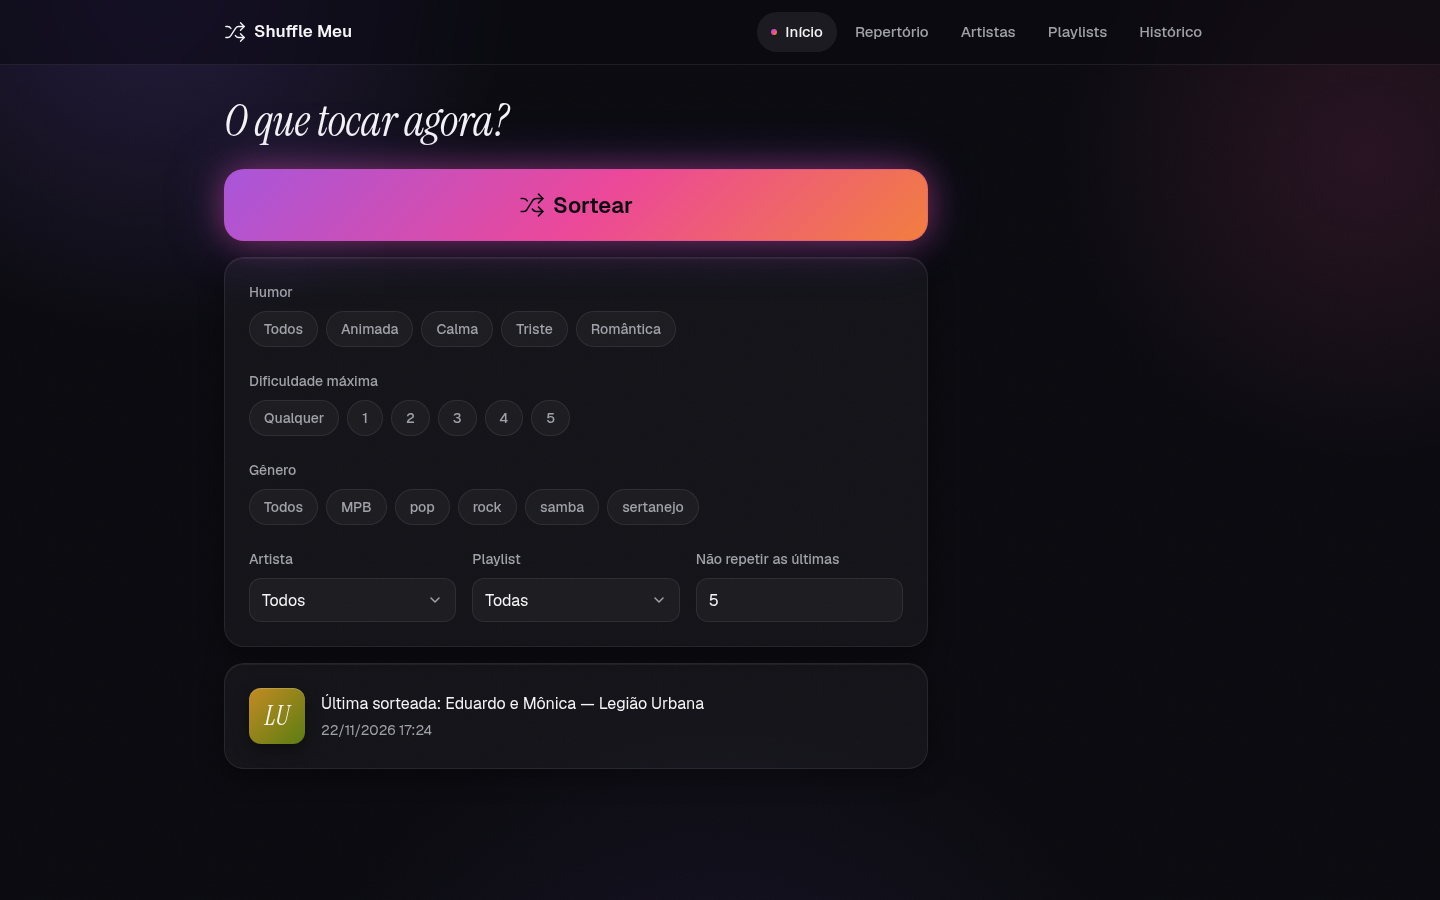
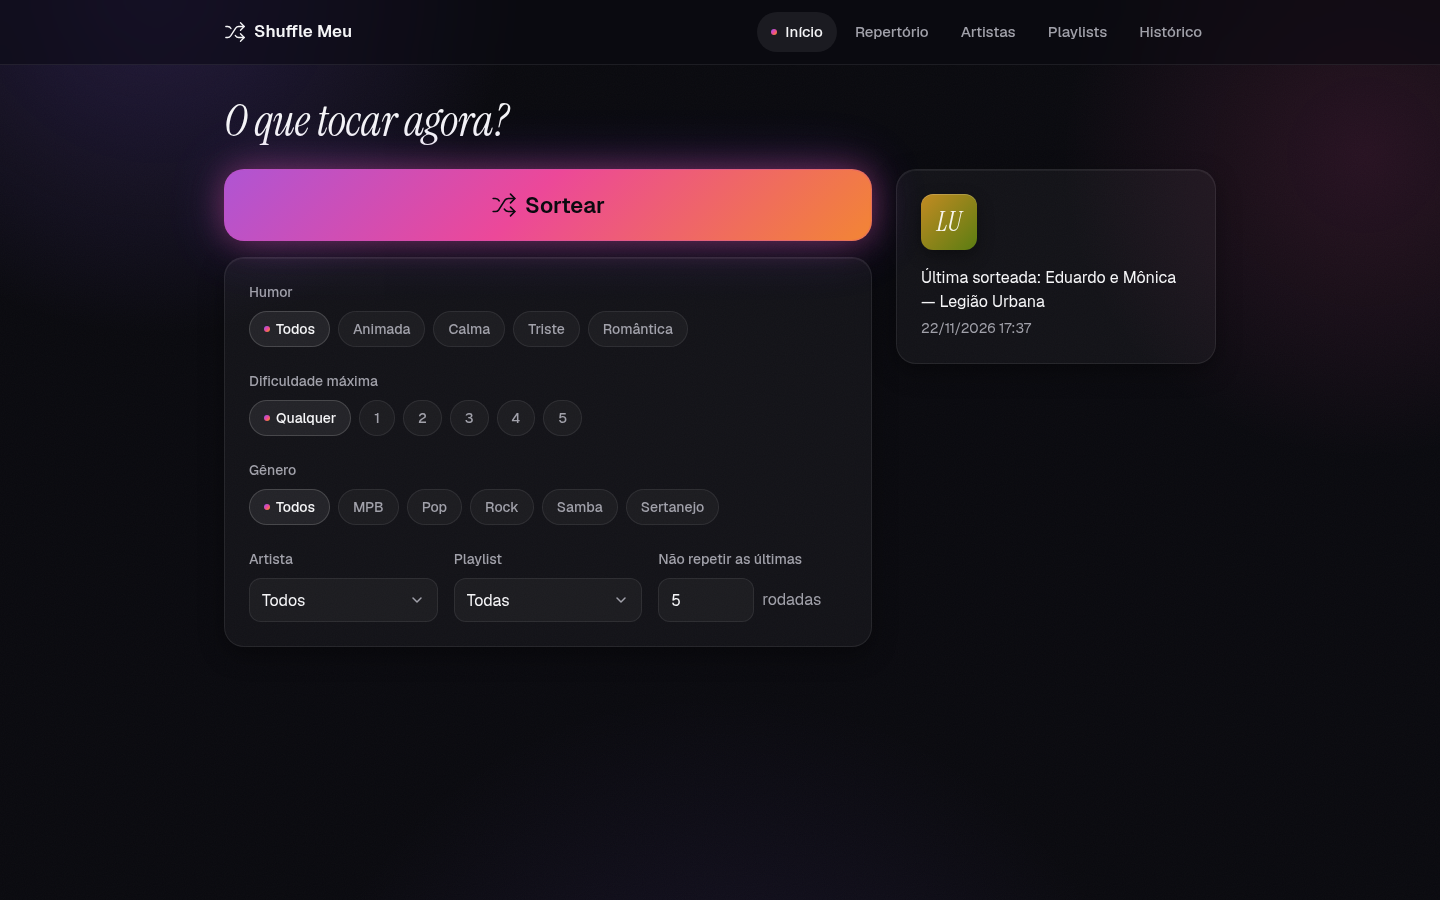
fix(visual): alinhamento da tela inicial
- Início em duas colunas a partir de 960 px, ocupando a largura da navegação;
  sem sorteios, a coluna direita mostra um cartão de espera no mesmo estilo
  (a causa era o max-width de 44rem na coluna única).
- Gêneros exibidos com a primeira letra maiúscula (siglas como MPB intactas),
  só na exibição; spec de estatísticas e design atualizados.
- Campo "Não repetir as últimas" com a unidade "rodadas".
- Chips sem filtro na URL voltam a marcar "Todos"/"Qualquer" (valor indefinido
  no Jinja não era tratado como vazio).
- Screenshots de início, repertório e histórico atualizados.

diff --git a/shuffle_meu/templates/inicio.html b/shuffle_meu/templates/inicio.html
@@ -3,14 +3,14 @@
 {% from "_macros.html" import campo, aria, chips, capa, vazio %}
 {% block titulo %}Início{% endblock %}
 {% block conteudo %}
-<div class="inicio">
 {% if not tem_musicas %}
-  <section class="cartao">
-    {{ vazio("musica", "Cadastre sua primeira música", "O sorteio começa quando o repertório tem pelo menos uma música.",
-             url_for("musicas.nova"), "Nova música") }}
-  </section>
+<section class="cartao">
+  {{ vazio("musica", "Cadastre sua primeira música", "O sorteio começa quando o repertório tem pelo menos uma música.",
+           url_for("musicas.nova"), "Nova música") }}
+</section>
 {% else %}
-  <h1>O que tocar agora?</h1>
+<h1>O que tocar agora?</h1>
+<div class="inicio">
   <form method="post" action="{{ url_for('sorteio.sortear') }}">
     <button class="primario sortear" data-pop>{{ icone("shuffle") }}Sortear</button>
     <div class="cartao campos filtros">
@@ -30,21 +30,36 @@
           {% for p in playlists %}<option value="{{ p.id }}" {% if f.playlist_id == p.id %}selected{% endif %}>{{ p.nome }}</option>{% endfor %}
         </select>
         {% endcall %}
-        {% call campo("n", "Não repetir as últimas", none) %}
-        <input name="n" type="number" min="0" max="50" inputmode="numeric" value="{{ n }}" {{ aria("n", none) }}>
-        {% endcall %}
+        <div class="campo">
+          <label for="campo-n">Não repetir as últimas<span class="visualmente-oculto"> rodadas</span></label>
+          <div class="com-unidade">
+            <input id="campo-n" name="n" type="number" min="0" max="50" inputmode="numeric" value="{{ n }}">
+            <span class="unidade" aria-hidden="true">rodadas</span>
+          </div>
+        </div>
       </div>
     </div>
   </form>
-  {% if ultimo %}
-  <section class="cartao ultima">
-    {{ capa(ultimo.artista) }}
-    <div>
-      <p>Última sorteada: {{ ultimo.titulo }} — {{ ultimo.artista }}</p>
-      <p class="meta">{{ ultimo.sorteado_em|data_local }}</p>
-    </div>
-  </section>
-  {% endif %}
-{% endif %}
+
+  <aside class="inicio-lado" aria-label="Última música sorteada">
+    {% if ultimo %}
+    <section class="cartao ultima">
+      {{ capa(ultimo.artista) }}
+      <div>
+        <p>Última sorteada: {{ ultimo.titulo }} — {{ ultimo.artista }}</p>
+        <p class="meta">{{ ultimo.sorteado_em|data_local }}</p>
+      </div>
+    </section>
+    {% else %}
+    <section class="cartao ultima ultima-vazia">
+      <span class="icone-playlist" aria-hidden="true">{{ icone("historico") }}</span>
+      <div>
+        <p>Sua última música aparece aqui</p>
+        <p class="meta">Depois do primeiro sorteio, ela fica guardada neste cartão.</p>
+      </div>
+    </section>
+    {% endif %}
+  </aside>
 </div>
+{% endif %}
 {% endblock %}

diff --git a/shuffle_meu/templates/_macros.html b/shuffle_meu/templates/_macros.html
@@ -19,16 +19,17 @@ id="campo-{{ nome }}"{% if erros and erros.get(nome) %} aria-invalid="true" aria
 </div>
 {%- endmacro %}
 
-{# Grupo de chips (radios) com legenda; `todos` cria a opção vazia ("Todos", "Qualquer"...). #}
+{# Grupo de chips (radios) com legenda; `todos` cria a opção vazia ("Todos", "Qualquer"...).
+   `atual` pode chegar indefinido (filtro ausente no dict): conta como vazio. #}
 {% macro chips(nome, rotulo, opcoes, atual, todos=none, erros=none, classe="chips") -%}
 <fieldset class="campo"{% if erros and erros.get(nome) %} aria-describedby="erro-{{ nome }}"{% endif %}>
   <legend>{{ rotulo }}</legend>
   <div class="{{ classe }}">
     {% if todos %}
-    <label class="chip"><input type="radio" name="{{ nome }}" value="" {% if atual is none or atual == "" %}checked{% endif %}><span>{{ todos }}</span></label>
+    <label class="chip"><input type="radio" name="{{ nome }}" value="" {% if atual is not defined or atual is none or atual == "" %}checked{% endif %}><span>{{ todos }}</span></label>
     {% endif %}
     {% for valor, texto in opcoes %}
-    <label class="chip"><input type="radio" name="{{ nome }}" value="{{ valor }}" {% if atual is not none and atual|string|lower == valor|string|lower %}checked{% endif %}><span>{{ texto }}</span></label>
+    <label class="chip"><input type="radio" name="{{ nome }}" value="{{ valor }}" {% if atual is defined and atual is not none and atual|string|lower == valor|string|lower %}checked{% endif %}><span>{{ texto }}</span></label>
     {% endfor %}
   </div>
   {{ erro(nome, erros) }}

diff --git a/shuffle_meu/static/style.css b/shuffle_meu/static/style.css
@@ -413,11 +413,20 @@ form.inline { display: inline-flex; gap: var(--espaco-2); margin: 0; }
 .estado-vazio h2 { font: italic 400 1.75rem/1.2 var(--fonte-serif); }
 
 /* ---------- Telas ---------- */
-.inicio { max-width: 44rem; }
 .inicio .sortear { margin-bottom: var(--espaco-4); }
 .filtros { gap: var(--espaco-5); }
 .ultima { display: flex; align-items: center; gap: var(--espaco-4); }
 .ultima p + p { margin-top: var(--espaco-1); }
+.ultima-vazia { display: none; } /* só equilibra as duas colunas; no celular seria rolagem à toa */
+.com-unidade { display: flex; align-items: center; gap: var(--espaco-2); }
+.com-unidade input { width: 6rem; flex: none; font-family: var(--fonte-mono); font-variant-numeric: tabular-nums; }
+.unidade { color: var(--texto-2); }
+@media (min-width: 960px) {
+  .inicio { display: grid; grid-template-columns: minmax(0, 1fr) 20rem; gap: var(--espaco-5); align-items: start; }
+  .inicio-lado { position: sticky; top: 88px; }
+  .inicio-lado .ultima { flex-direction: column; align-items: flex-start; }
+  .ultima-vazia { display: flex; }
+}
 
 /* Formulários */
 .formulario { max-width: 40rem; }

diff --git a/shuffle_meu/templates/musicas/lista.html b/shuffle_meu/templates/musicas/lista.html
@@ -27,7 +27,7 @@
       <a class="musica-titulo" href="{{ url_for('musicas.editar', id=m.id) }}">{{ m.titulo }}</a>
       <p class="meta">{{ m.artista }}</p>
       <div class="etiquetas">
-        {% if m.genero %}<span class="etiqueta">{{ m.genero }}</span>{% endif %}
+        {% if m.genero %}<span class="etiqueta">{{ m.genero|genero }}</span>{% endif %}
         {% if m.humor %}<span class="etiqueta">{{ HUMORES[m.humor] }}</span>{% endif %}
         <span class="etiqueta etiqueta-inativa">Inativa</span>
         {{ dificuldade(m.dificuldade) }}

diff --git a/shuffle_meu/templates/historico.html b/shuffle_meu/templates/historico.html
@@ -58,7 +58,7 @@
     <ul class="barras">
       {% for rotulo, quantidade in est.generos %}
       <li>
-        <div class="barra-texto"><span>{{ rotulo }}</span><span class="numero">{{ quantidade }}</span></div>
+        <div class="barra-texto"><span>{{ rotulo|genero }}</span><span class="numero">{{ quantidade }}</span></div>
         <div class="barra" aria-hidden="true"><span style="--p: {{ (quantidade / maior * 100)|round(1) }}%"></span></div>
       </li>
       {% endfor %}

diff --git a/tests/test_sorteio.py b/tests/test_sorteio.py
@@ -173,8 +173,25 @@ class TestSorteio(BaseTest):
         html = self.texto(self.client.get("/?humor=calma&dificuldade_max=3&genero=ROCK&n=7"))
         self.assertIn('name="humor" value="calma" checked', html)
         self.assertIn('name="dificuldade_max" value="3" checked', html)
-        self.assertIn('name="genero" value="rock" checked', html)
+        self.assertIn('name="genero" value="rock" checked><span>Rock</span>', html)  # exibe capitalizado, valor intacto
         self.assertIn('value="7"', html)
+        self.assertIn('<span class="unidade" aria-hidden="true">rodadas</span>', html)
+
+    def test_sem_filtros_marca_todos(self):
+        self.musica("Tempo Perdido", genero="rock")
+        html = self.texto(self.client.get("/"))
+        for nome in ("humor", "dificuldade_max", "genero"):
+            self.assertIn(f'name="{nome}" value="" checked', html)
+
+    def test_cartao_de_espera_sem_sorteios(self):
+        self.musica("Tempo Perdido")
+        html = self.texto(self.client.get("/"))
+        self.assertIn("Sua última música aparece aqui", html)
+        self.assertNotIn("Última sorteada:", html)
+        self.sorteio(1)
+        html = self.texto(self.client.get("/"))
+        self.assertIn("Última sorteada: Tempo Perdido — Legião Urbana", html)
+        self.assertNotIn("Sua última música aparece aqui", html)
 
     def test_desempenho_com_1000_musicas(self):
         a = self.artista_padrao()

diff --git a/shuffle_meu/musicas.py b/shuffle_meu/musicas.py
@@ -53,6 +53,13 @@ def validar_musica(form):
     return dados, erros
 
 
+def rotulo_genero(genero):
+    """Só para exibir: 'pop' -> 'Pop', 'rock progressivo' -> 'Rock progressivo'; siglas como 'MPB' ficam como estão."""
+    if not genero or genero.isupper():
+        return genero or ""
+    return genero[0].upper() + genero[1:]
+
+
 def generos(db):
     """Gêneros já usados no repertório, sem repetir 'rock' e 'Rock'."""
     return [r[0] for r in db.execute(
@@ -112,7 +119,7 @@ def lista():
         q = q.casefold()
         musicas = [m for m in musicas if q in m["titulo"].casefold() or q in m["artista"].casefold()]
     return render_template("musicas/lista.html", musicas=musicas, q=request.args.get("q", ""), f=f,
-                           generos=[(g, g) for g in generos(db)], qs=_filtros_lista(request.args))
+                           generos=[(g, rotulo_genero(g)) for g in generos(db)], qs=_filtros_lista(request.args))
 
 
 @bp.route("/nova", methods=["GET", "POST"])

diff --git a/shuffle_meu/sorteio.py b/shuffle_meu/sorteio.py
@@ -3,7 +3,7 @@ import random
 from flask import Blueprint, abort, flash, redirect, render_template, request, session, url_for
 
 from .db import get_db
-from .musicas import generos
+from .musicas import generos, rotulo_genero
 
 bp = Blueprint("sorteio", __name__)
 
@@ -63,7 +63,7 @@ def inicio():
         " JOIN musica m ON m.id = s.musica_id JOIN artista a ON a.id = m.artista_id ORDER BY s.id DESC LIMIT 1"
     ).fetchone()
     return render_template(
-        "inicio.html", f=filtros, n=n, ultimo=ultimo, generos=[(g, g) for g in generos(db)],
+        "inicio.html", f=filtros, n=n, ultimo=ultimo, generos=[(g, rotulo_genero(g)) for g in generos(db)],
         tem_musicas=db.execute("SELECT EXISTS (SELECT 1 FROM musica)").fetchone()[0],
         artistas=db.execute("SELECT id, nome FROM artista ORDER BY nome COLLATE PT").fetchall(),
         playlists=db.execute("SELECT id, nome FROM playlist ORDER BY nome COLLATE PT").fetchall(),

diff --git a/tests/test_design.py b/tests/test_design.py
@@ -2,6 +2,7 @@ import unittest
 import zlib
 
 from shuffle_meu import decimal1, iniciais, matiz
+from shuffle_meu.musicas import rotulo_genero
 from tests.base import BaseTest
 
 ICONES = ("dado", "shuffle", "musica", "microfone", "lista", "historico", "coracao", "estrela", "check", "pular",
@@ -19,6 +20,12 @@ class TestFiltros(unittest.TestCase):
         self.assertEqual(iniciais("Djavan"), "D")
         self.assertEqual(iniciais("The Beatles"), "TB")
         self.assertEqual(iniciais(""), "")
+
+    def test_rotulo_genero(self):
+        self.assertEqual([rotulo_genero(g) for g in ("pop", "rock", "MPB", "samba", "sertanejo")],
+                         ["Pop", "Rock", "MPB", "Samba", "Sertanejo"])
+        self.assertEqual(rotulo_genero("rock progressivo"), "Rock progressivo")
+        self.assertEqual(rotulo_genero(None), "")
 
     def test_decimal1(self):
         self.assertEqual(decimal1(4.25), "4,3")

diff --git a/shuffle_meu/__init__.py b/shuffle_meu/__init__.py
@@ -25,7 +25,8 @@ def create_app(config=None):
 
     for modulo in (artistas, musicas, playlists, sorteio, historico):
         app.register_blueprint(modulo.bp)
-    app.jinja_env.filters.update(data_local=data_local, matiz=matiz, iniciais=iniciais, decimal1=decimal1)
+    app.jinja_env.filters.update(data_local=data_local, matiz=matiz, iniciais=iniciais, decimal1=decimal1,
+                                  genero=musicas.rotulo_genero)
     app.jinja_env.globals["HUMORES"] = musicas.HUMORES
     return app
 

diff --git a/tests/test_estatisticas.py b/tests/test_estatisticas.py
@@ -94,4 +94,5 @@ class TestTelaEstatisticas(BaseTest):
         self.sorteio(1, tocada=1, nota=5)
         r = self.client.get("/historico")
         self.assertEqual(r.status_code, 200)
-        self.assertIn("rock", self.texto(r))
+        self.assertIn("<span>Rock</span>", self.texto(r))  # rótulo capitalizado só na exibição
+        self.assertIn("<span>MPB</span>", self.texto(r))

diff --git a/openspec/changes/add-estatisticas-e-visual/design.md b/openspec/changes/add-estatisticas-e-visual/design.md
@@ -40,6 +40,7 @@ SELECT m.id, m.titulo, a.nome AS artista, AVG(s.nota) AS media, COUNT(s.nota) AS
  WHERE s.nota IS NOT NULL GROUP BY m.id ORDER BY media DESC, avaliacoes DESC, m.titulo COLLATE PT;
 ```
 - **Por gênero** é agrupado em Python: `SELECT genero FROM musica`, chave `casefold()` (vazio vira "Sem gênero"), rótulo = grafia mais frequente do grupo (empate: a primeira em ordem alfabética), ordenado por quantidade e depois pelo rótulo. Fazer isso em SQL exigiria subconsultas para a "grafia mais usada"; em Python são poucas linhas.
+- **Exibição de gêneros** (em todas as telas, não só nas estatísticas): filtro Jinja `genero` põe a primeira letra em maiúscula ("pop" vira "Pop") e mantém siglas já em caixa alta ("MPB"). Só na exibição: o banco, os valores dos filtros e o campo do formulário continuam com o texto digitado.
 - **Arredondamento:** a ordem usa a média exata; a exibição usa um filtro Jinja `decimal1` com `Decimal(...).quantize(Decimal("0.1"), ROUND_HALF_UP)` e vírgula ("4,25" vira "4,3"). O `round()` do Python arredonda para o par e mostraria "4,2".
 - **Barras:** largura proporcional ao maior valor da seção, passada como `style="--p: 75%"`.
 - Listas longas ("nunca sorteadas" e "médias") mostram 10 itens e o resto dentro de um `<details>` "Ver todas (N)".
@@ -163,7 +164,8 @@ Palco de show à noite: interface escura, cartões de vidro fosco flutuando sobr
 
 ### Layout
 
-- Largura máxima do conteúdo: 64rem, alinhado à esquerda dentro do contêiner centralizado; o resultado do sorteio é a única tela centralizada.
+- Largura máxima do conteúdo: 64rem, alinhado à esquerda dentro do contêiner centralizado, ocupando a mesma largura da navegação (nenhuma tela deixa um vazio de um lado só); o resultado do sorteio é a única tela centralizada.
+- Início: a partir de 960 px, duas colunas (sorteio e filtros à esquerda, cartão da última sorteada à direita, 20rem). Sem sorteios, a coluna da direita mostra um cartão de espera no mesmo estilo; abaixo de 960 px ele não aparece.
 - Repertório: grade `repeat(auto-fill, minmax(16rem, 1fr))` no desktop, uma coluna no celular.
 - Ponto de quebra único: 720 px (barra de navegação muda de cima para baixo).
 - Camadas (`z-index`): fundo −1, conteúdo 0, navegação 10, toasts 20.
